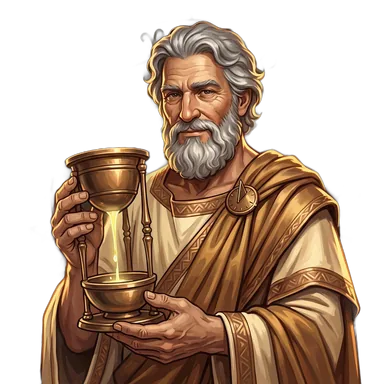
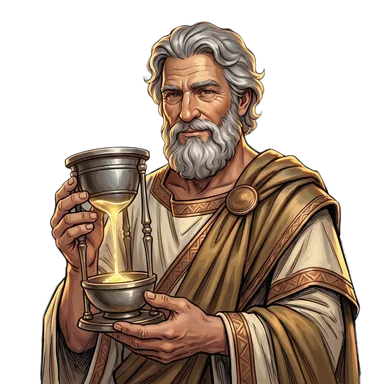
Five redrawn portraits: Hesychia, Argos, Chronos, Elpis and Hermes, with head boxes and head positions fitted to the new poses (#252)

Changed region(s): [[0.0938, 0.0312, 0.9375, 1.0], [0.4688, 0.2188, 0.5, 0.25]]

diff --git a/scripts/cut-portraits.py b/scripts/cut-portraits.py
@@ -26,10 +26,11 @@ NAMES = tuple(sorted(KOURAI + NEW))
 # stands right of centre at his anvil. The five new boxes are in the 1024 px
 # JPEGs, framed like Hephaestus: head and beard in the upper middle, one
 # shoulder entering the circle. Hermes's hat wings clip; his face and brim stay.
+# Refit 2026-11-01 for the five redrawn portraits.
 HEAD = (
     {name: (180, 20, 460, 300) for name in KOURAI}
     | {"hephaestus": (250, 20, 530, 300)}
-    | {"chronos": (330, 20, 970, 660), "argos": (200, 20, 700, 520), "hermes": (330, 30, 850, 550), "elpis": (300, 20, 780, 500), "hesychia": (250, 40, 810, 600)}
+    | {"chronos": (242, 20, 842, 620), "argos": (268, 20, 768, 520), "hermes": (266, 30, 786, 550), "elpis": (270, 20, 750, 500), "hesychia": (212, 20, 772, 580)}
 )
 SIZES = (96, 192)
 # (left, top, right, bottom) of the square half-figure: the head in the upper
